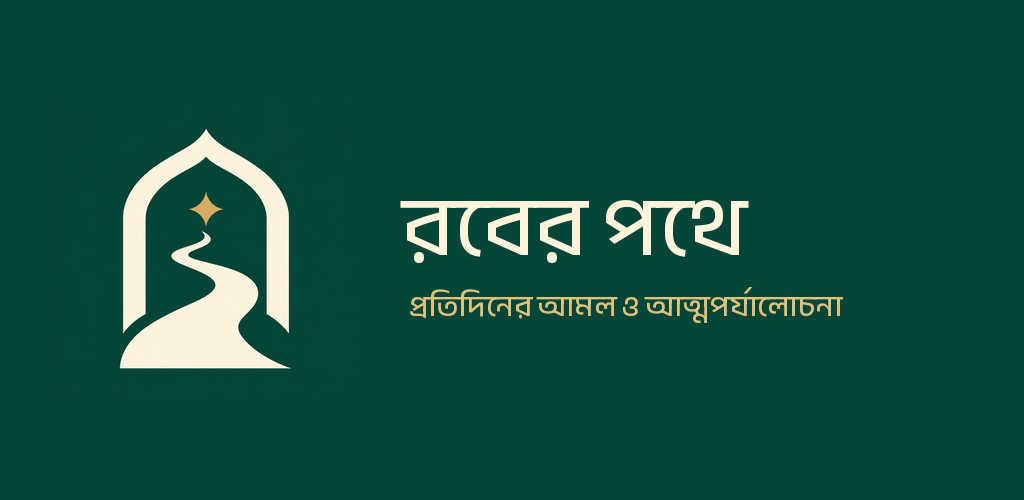
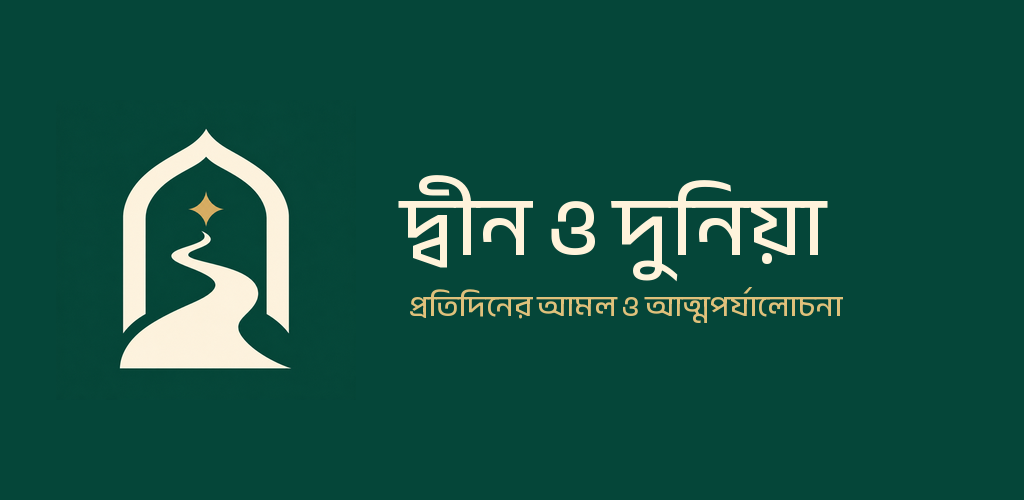
Rename app to দ্বীন ও দুনিয়া across product branding

Changed region(s): [[0.375, 0.33, 0.8125, 0.57]]

diff --git a/hosting/public/privacy.html b/hosting/public/privacy.html
@@ -1,7 +1,7 @@
 <!doctype html>
 <html lang="bn"><head><meta charset="utf-8"><meta name="viewport" content="width=device-width,initial-scale=1">
-<meta name="theme-color" content="#054639"><title>গোপনীয়তা নীতি — রবের পথে</title>
+<meta name="theme-color" content="#054639"><title>গোপনীয়তা নীতি — দ্বীন ও দুনিয়া</title>
 <link rel="icon" href="/assets/icon.png"><link rel="stylesheet" href="/site.css"></head>
-<body><header><a class="brand" href="/"><img src="/assets/icon.png" alt="" width="44" height="44">রবের পথে</a>
+<body><header><a class="brand" href="/"><img src="/assets/icon.png" alt="" width="44" height="44">দ্বীন ও দুনিয়া</a>
 <nav aria-label="মূল নেভিগেশন"><a href="/privacy">গোপনীয়তা</a><a href="/delete-account">অ্যাকাউন্ট মুছুন</a></nav></header>
-<main><h1>গোপনীয়তা নীতি</h1><p class="muted">হালনাগাদ: ৫ নভেম্বর ২০২৬</p><section><h2>আমাদের পরিচয় ও যোগাযোগ</h2><p>রবের পথে অ্যাপটি Rakindotcom পরিচালনা করে। গোপনীয়তা বা সেবা সম্পর্কে প্রশ্ন করতে নিচের যোগাযোগের ইমেইল ব্যবহার করুন। সাধারণ কারিগরি সমস্যার জন্য সহায়তা লিংকও আছে। কোনো পাবলিক ইস্যুতে পাসওয়ার্ড, ব্যক্তিগত আমল বা অন্য সংবেদনশীল তথ্য লিখবেন না।</p></section><section><h2>আপনি যে তথ্য দেন</h2><p>অনলাইন অ্যাকাউন্টের জন্য নাম, ইমেইল ও একটি ব্যবহারকারী পরিচিতি Firebase Authentication ও Cloud Firestore-এ রাখা হয়। আপনার দেওয়া কাজ, বিবরণ, প্রকল্প, সময়সূচি, সময়সীমা, ক্যালেন্ডার ইভেন্ট, নামাজ ও জামাতের হিসাব, গ্রোথ চেকলিস্ট, কুরআন পড়া, যিকির, লক্ষ্য, পরিচিতির নাম ও পছন্দগুলো সংশ্লিষ্ট সুবিধা অনুযায়ী ডিভাইসে বা অ্যাকাউন্টের সঙ্গে সংরক্ষিত হয়। আমলের হিসাব ধর্মীয় বিশ্বাস বা চর্চা সম্পর্কে তথ্য প্রকাশ করতে পারে। অ্যাপে ফোনের পরিচিতির তালিকা আমদানি করা হয় না।</p></section><section><h2>ডিভাইসে থাকা কর্মপরিসর</h2><p>নতুন কর্মপরিসরের কাজ, প্রকল্প, ক্যালেন্ডার ইভেন্ট, নোট, পছন্দ, ট্র্যাশ, সম্পাদনার ইতিহাস এবং সিঙ্ক না হওয়া পরিবর্তন ডিভাইসের অ্যাপ-সংরক্ষণস্থানে অ্যাকাউন্টভিত্তিক Sembast ডেটাবেসে থাকে। ওয়েব সংস্করণে একই ধরনের তথ্য ব্রাউজারের স্থানীয় ডেটাবেসে থাকে। এই স্থানীয় ডেটাবেসে অ্যাপ নিজে অতিরিক্ত এনক্রিপশন যোগ করে না। সাইন আউট করলে স্থানীয় কর্মপরিসর মুছে যায় না; একই অ্যাকাউন্ট আবার খুললে রাখা তথ্য ও সিঙ্কের অপেক্ষায় থাকা কাজ ব্যবহার করা যায়। ডিভাইস অন্য কাউকে দেওয়ার আগে প্রয়োজনে অপারেটিং সিস্টেম থেকে অ্যাপের সংরক্ষিত তথ্য বা ব্রাউজারের সংশ্লিষ্ট সাইটের তথ্য পরিষ্কার করুন। এতে সিঙ্ক বা ব্যাকআপ না হওয়া তথ্য হারাতে পারে।</p></section><section><h2>ক্লাউড সমন্বয় ও অফলাইন প্রিভিউ</h2><p>প্রধান অ্যাপের অনলাইন সুবিধাগুলো অ্যাকাউন্টের তথ্য Cloud Firestore-এ রাখে। নতুন কর্মপরিসরের অনলাইন সমন্বয় চালু থাকা সংস্করণে স্থানীয় কর্মপরিসরের রেকর্ড ও সম্পাদনার তথ্যও আপনার Firebase অ্যাকাউন্টের অধীনে Firestore-এ সমন্বয় করা হয়। অফলাইনে করা পরিবর্তন স্থানীয় কিউতে থাকে এবং সংযোগ ও সক্রিয় সেশন থাকলে পরে পাঠানোর চেষ্টা করা হয়। আলাদা PREVIEW চিহ্নিত অফলাইন সংস্করণ Firebase চালু করে না এবং প্রধান অ্যাকাউন্টে সাইন ইন বা ক্লাউড সমন্বয় করে না। প্রিভিউর কর্মপরিসরের তথ্য তার নিজস্ব স্থানীয় সংরক্ষণস্থানে থাকে।</p></section><section><h2>ব্যাকআপ নেওয়া ও ফিরিয়ে আনা</h2><p>নতুন কর্মপরিসরের সেটিংস থেকে চাইলে JSON ব্যাকআপ নিতে বা বেছে নেওয়া ব্যাকআপ ফিরিয়ে আনতে পারেন। ব্যাকআপে অ্যাকাউন্ট পরিচিতি, কর্মপরিসরের রেকর্ড, ট্র্যাশ, সিঙ্ক না হওয়া পরিবর্তন, সম্পাদনার ইতিহাস ও দ্বন্দ্বের তথ্য থাকতে পারে। এই JSON ফাইল এনক্রিপ্ট করা নয়; ফাইলটি যিনি পড়তে পারেন তিনি এর তথ্যও পড়তে পারেন। ডিভাইসের ফাইল বাছাইয়ের পর্দায় আপনি ফাইল কোথায় রাখবেন বা কোন ফাইল খুলবেন তা ঠিক করেন। আপনার বেছে নেওয়া ক্লাউড ড্রাইভ বা অন্য সংরক্ষণসেবা ব্যবহার করলে সেই সেবার নিয়ম প্রযোজ্য হয়। অ্যাপ নিজে ব্যাকআপ ফাইল কোনো নির্দিষ্ট ক্লাউডে পাঠায় না। ফিরিয়ে আনা ব্যাকআপ একই অ্যাকাউন্টের হতে হয়; এর তথ্য বর্তমান রেকর্ড বদলাতে পারে এবং অনলাইন সমন্বয় চালু থাকলে পরে Firestore-এ পাঠানো হতে পারে। অ্যাকাউন্ট মুছে ফেললেও আপনার রপ্তানি করা ফাইল বা অন্য সংরক্ষণসেবায় রাখা কপি অ্যাপ মুছতে পারে না; সেগুলো আলাদাভাবে মুছুন।</p></section><section><h2>তথ্য ব্যবহারের উদ্দেশ্য</h2><p>অ্যাকাউন্টে প্রবেশ, আপনার তথ্য ডিভাইসগুলোর মধ্যে সমন্বয়, অগ্রগতি দেখানো এবং আপনার পছন্দ অনুযায়ী সেবা দিতে তথ্য ব্যবহার করা হয়। ব্যক্তিগত তথ্য বিক্রি করা হয় না এবং বিজ্ঞাপন দেখাতে ব্যবহার করা হয় না।</p></section><section><h2>অবস্থান ও নোটিফিকেশন</h2><p>আপনি বর্তমান অবস্থান ব্যবহার করতে বললে অনুমতি নিয়ে নামাজের সময় গণনার জন্য অবস্থান নেওয়া হয়। ডিভাইস থেকে পাওয়া স্থানাঙ্ক দুই দশমিক ঘরে সীমিত করে এই ডিভাইসে রাখা হয়; অ্যাপের কোড সেই স্থানাঙ্ক Firestore-এ পাঠায় না। আপনি নিজেও স্থানাঙ্ক দিতে পারেন। রিমাইন্ডার, নামাজের অ্যালার্ট ও তাদের পছন্দ ডিভাইসে কাজ করে। অনুমতি বন্ধ করতে ডিভাইসের সেটিংস ব্যবহার করুন।</p></section><section><h2>সেবা প্রদানকারী ও নিরাপত্তা</h2><p>Google Firebase অ্যাকাউন্ট ও তথ্য সংরক্ষণে সেবা প্রদানকারী হিসেবে কাজ করে। Firebase Authentication নিরাপত্তা ও অপব্যবহার প্রতিরোধের জন্য IP ঠিকানা, user-agent ও অ্যাপ সম্পর্কিত কারিগরি তথ্য প্রক্রিয়া করতে পারে। Google দিয়ে প্রবেশ করলে Google আপনার পরিচয় নিশ্চিত করে। নেটওয়ার্কে তথ্য পাঠাতে সুরক্ষিত সংযোগ এবং অ্যাকাউন্ট অনুযায়ী প্রবেশাধিকার ব্যবহৃত হয়। কোনো ব্যবস্থাকে সম্পূর্ণ ঝুঁকিমুক্ত বলে নিশ্চয়তা দেওয়া যায় না।</p></section><section><h2>ঐচ্ছিক সমস্যার রিপোর্ট</h2><p>সেটিংসে সমস্যার রিপোর্ট পাঠানো চালু করলে Firebase Crashlytics-এ ক্র্যাশের ধরন, কল স্ট্যাক, ফোনের মডেল, অপারেটিং সিস্টেম ও অ্যাপ ইনস্টলেশনের পরিচিতির মতো কারিগরি তথ্য পাঠানো হয়। এটি শুরুতে বন্ধ থাকে এবং যেকোনো সময় বন্ধ করতে পারেন। অ্যাপ রিপোর্টে আপনার নাম, ইমেইল, অ্যাকাউন্ট পরিচিতি বা দৈনন্দিন আমলের বিবরণ যোগ করে না। বন্ধ করলে পাঠানো বাকি রিপোর্ট সরানোর চেষ্টা করা হয়; আগে পাঠানো প্রযুক্তিগত রিপোর্ট Google-এর সংরক্ষণ নীতির অধীন থাকে। বিজ্ঞাপনের জন্য এই রিপোর্ট ব্যবহৃত হয় না।</p></section><section><h2>তথ্য কতদিন থাকে</h2><p>আপনি অ্যাকাউন্ট ব্যবহার করার সময় আপনার সংরক্ষিত তথ্য রাখা হয়। সাইন আউটের পরও এই ডিভাইসের স্থানীয় কর্মপরিসর থাকে, যতক্ষণ না অ্যাকাউন্ট মোছার পর স্থানীয় পরিষ্কার সম্পন্ন হয় বা আপনি অ্যাপের সংরক্ষিত তথ্য পরিষ্কার করেন। মোছা শুরু হলে অ্যাকাউন্টে নতুন তথ্য লেখা বন্ধ হয়। অ্যাপ বা ওয়েব পৃষ্ঠা আপনার সংশ্লিষ্ট সক্রিয় তথ্য মুছে ফেলার পর অ্যাকাউন্ট মুছে দেয়। সংযোগ বিচ্ছিন্ন হলে আবার সাইন ইন করে মোছা সম্পন্ন করতে হয়; কাজ শেষ হওয়ার আগে সফল বলা হয় না। পুরনো সেশন বা কিউতে থাকা লেখা থেকে তথ্য আবার তৈরি হওয়া ঠেকাতে অ্যাকাউন্ট পরিচিতির একটি খালি রোধচিহ্ন রাখা হয়। এতে নাম, ইমেইল বা আমলের তথ্য থাকে না এবং এই নিরাপত্তা চিহ্নের নির্দিষ্ট মেয়াদ নেই। সেবা প্রদানকারীর নিরাপত্তা লগ ও প্রযোজ্য ব্যাকআপ তাদের নিজস্ব সংরক্ষণ নীতির অধীন।</p></section><section><h2>অ্যাকাউন্ট ও তথ্য মুছে ফেলা</h2><p>অ্যাপে সেটিংস → অ্যাকাউন্ট মুছে ফেলুন থেকে অনুরোধ করুন, অথবা নিচের ওয়েব পৃষ্ঠায় একই অ্যাকাউন্ট দিয়ে প্রবেশ করুন। নিরাপত্তার জন্য পরিচয় আবার নিশ্চিত করতে হয়। অ্যাকাউন্টের সঙ্গে থাকা কাজ, প্রকল্প, ক্যালেন্ডার ইভেন্ট, কর্মপরিসরের রেকর্ড ও সম্পাদনার তথ্য, নামাজ, গ্রোথ, কুরআন, যিকির, পরিচিতি, পছন্দ, প্রোফাইল ও অ্যাকাউন্ট মুছে ফেলা হবে। মোছা শুরু হলে এটি ফিরিয়ে নেওয়া যাবে না। মোছা শেষ না হওয়া পর্যন্ত অ্যাপ বা পৃষ্ঠা খোলা রাখুন। অ্যাপ থেকে সফলভাবে মোছার পর এই ডিভাইসের সংশ্লিষ্ট কর্মপরিসরের ডেটাবেস, অবস্থান ও অ্যালার্টের পছন্দ পরিষ্কার করার চেষ্টা করা হয়; বাকি স্থানীয় পরিষ্কার পরেরবার অ্যাপ চালুর সময় আবার চেষ্টা করা হয়। ওয়েব পৃষ্ঠা বা অন্য ডিভাইস থেকে মোছা এই ডিভাইসের অফলাইন কপি তাৎক্ষণিকভাবে পরিষ্কার করতে পারে না। অবশিষ্ট স্থানীয় তথ্য পরিষ্কার করতে অ্যাপটি বন্ধ করে আবার চালু করুন এবং প্রয়োজনে ডিভাইস থেকে অ্যাপের তথ্য বা ব্রাউজারের সংশ্লিষ্ট সাইটের তথ্য পরিষ্কার করুন। রপ্তানি করা ব্যাকআপ এবং আলাদা অফলাইন প্রিভিউর তথ্য নিজে পরিষ্কার করুন।</p></section><section><h2>আপনার পছন্দ ও অধিকার</h2><p>প্রোফাইল ও দৈনিক হিসাব অ্যাপের সংশ্লিষ্ট পৃষ্ঠা থেকে সংশোধন করতে পারেন। অবস্থান ও নোটিফিকেশন ব্যবহার ঐচ্ছিক। পাসওয়ার্ড রিসেট, সাইন আউট বা অ্যাকাউন্ট মুছে ফেলার ব্যবস্থা ব্যবহার করতে পারেন। অ্যাকাউন্ট মুছে ফেললে সক্রিয় সার্ভারে আপনার তথ্য রাখা হয় না; উপরে বলা খালি নিরাপত্তা চিহ্ন ও সেবা প্রদানকারীর সংরক্ষণ ব্যতিক্রম প্রযোজ্য।</p></section><section><h2>নীতির পরিবর্তন</h2><p>তথ্য ব্যবহারে পরিবর্তন হলে এই পৃষ্ঠার হালনাগাদের তারিখ ও নীতি সংশোধন করা হবে। নতুন সংবেদনশীল অনুমতি বা উদ্দেশ্যের জন্য প্রয়োজনীয় ব্যাখ্যা ও পছন্দ দেওয়া হবে।</p></section><p><a href="https://github.com/Rakindotcom/assistUmmah/issues">সহায়তা ও যোগাযোগ</a></p><p><a href="mailto:teamframecipher@gmail.com">teamframecipher@gmail.com</a></p><p><a href="/delete-account">ওয়েব থেকে অ্যাকাউন্ট মুছে ফেলার অনুরোধ করুন</a></p></main><footer>রবের পথে · Rakindotcom · <a href="/privacy">গোপনীয়তা নীতি</a></footer></body></html>
+<main><h1>গোপনীয়তা নীতি</h1><p class="muted">হালনাগাদ: ৯ নভেম্বর ২০২৬</p><section><h2>আমাদের পরিচয় ও যোগাযোগ</h2><p>দ্বীন ও দুনিয়া অ্যাপটি Rakindotcom পরিচালনা করে। গোপনীয়তা বা সেবা সম্পর্কে প্রশ্ন করতে নিচের যোগাযোগের ইমেইল ব্যবহার করুন। সাধারণ কারিগরি সমস্যার জন্য সহায়তা লিংকও আছে। কোনো পাবলিক ইস্যুতে পাসওয়ার্ড, ব্যক্তিগত আমল বা অন্য সংবেদনশীল তথ্য লিখবেন না।</p></section><section><h2>আপনি যে তথ্য দেন</h2><p>অনলাইন অ্যাকাউন্টের জন্য নাম, ইমেইল ও একটি ব্যবহারকারী পরিচিতি Firebase Authentication ও Cloud Firestore-এ রাখা হয়। আপনার দেওয়া কাজ, বিবরণ, প্রকল্প, সময়সূচি, সময়সীমা, ক্যালেন্ডার ইভেন্ট, নামাজ ও জামাতের হিসাব, গ্রোথ চেকলিস্ট, কুরআন পড়া, যিকির, লক্ষ্য, পরিচিতির নাম ও পছন্দগুলো সংশ্লিষ্ট সুবিধা অনুযায়ী ডিভাইসে বা অ্যাকাউন্টের সঙ্গে সংরক্ষিত হয়। আমলের হিসাব ধর্মীয় বিশ্বাস বা চর্চা সম্পর্কে তথ্য প্রকাশ করতে পারে। অ্যাপে ফোনের পরিচিতির তালিকা আমদানি করা হয় না।</p></section><section><h2>ডিভাইসে থাকা কর্মপরিসর</h2><p>নতুন কর্মপরিসরের কাজ, প্রকল্প, ক্যালেন্ডার ইভেন্ট, নোট, পছন্দ, ট্র্যাশ, সম্পাদনার ইতিহাস এবং সিঙ্ক না হওয়া পরিবর্তন ডিভাইসের অ্যাপ-সংরক্ষণস্থানে অ্যাকাউন্টভিত্তিক Sembast ডেটাবেসে থাকে। ওয়েব সংস্করণে একই ধরনের তথ্য ব্রাউজারের স্থানীয় ডেটাবেসে থাকে। এই স্থানীয় ডেটাবেসে অ্যাপ নিজে অতিরিক্ত এনক্রিপশন যোগ করে না। সাইন আউট করলে স্থানীয় কর্মপরিসর মুছে যায় না; একই অ্যাকাউন্ট আবার খুললে রাখা তথ্য ও সিঙ্কের অপেক্ষায় থাকা কাজ ব্যবহার করা যায়। ডিভাইস অন্য কাউকে দেওয়ার আগে প্রয়োজনে অপারেটিং সিস্টেম থেকে অ্যাপের সংরক্ষিত তথ্য বা ব্রাউজারের সংশ্লিষ্ট সাইটের তথ্য পরিষ্কার করুন। এতে সিঙ্ক বা ব্যাকআপ না হওয়া তথ্য হারাতে পারে।</p></section><section><h2>ক্লাউড সমন্বয় ও অফলাইন প্রিভিউ</h2><p>প্রধান অ্যাপের অনলাইন সুবিধাগুলো অ্যাকাউন্টের তথ্য Cloud Firestore-এ রাখে। নতুন কর্মপরিসরের অনলাইন সমন্বয় চালু থাকা সংস্করণে স্থানীয় কর্মপরিসরের রেকর্ড ও সম্পাদনার তথ্যও আপনার Firebase অ্যাকাউন্টের অধীনে Firestore-এ সমন্বয় করা হয়। অফলাইনে করা পরিবর্তন স্থানীয় কিউতে থাকে এবং সংযোগ ও সক্রিয় সেশন থাকলে পরে পাঠানোর চেষ্টা করা হয়। আলাদা PREVIEW চিহ্নিত অফলাইন সংস্করণ Firebase চালু করে না এবং প্রধান অ্যাকাউন্টে সাইন ইন বা ক্লাউড সমন্বয় করে না। প্রিভিউর কর্মপরিসরের তথ্য তার নিজস্ব স্থানীয় সংরক্ষণস্থানে থাকে।</p></section><section><h2>ব্যাকআপ নেওয়া ও ফিরিয়ে আনা</h2><p>নতুন কর্মপরিসরের সেটিংস থেকে চাইলে JSON ব্যাকআপ নিতে বা বেছে নেওয়া ব্যাকআপ ফিরিয়ে আনতে পারেন। ব্যাকআপে অ্যাকাউন্ট পরিচিতি, কর্মপরিসরের রেকর্ড, ট্র্যাশ, সিঙ্ক না হওয়া পরিবর্তন, সম্পাদনার ইতিহাস ও দ্বন্দ্বের তথ্য থাকতে পারে। এই JSON ফাইল এনক্রিপ্ট করা নয়; ফাইলটি যিনি পড়তে পারেন তিনি এর তথ্যও পড়তে পারেন। ডিভাইসের ফাইল বাছাইয়ের পর্দায় আপনি ফাইল কোথায় রাখবেন বা কোন ফাইল খুলবেন তা ঠিক করেন। আপনার বেছে নেওয়া ক্লাউড ড্রাইভ বা অন্য সংরক্ষণসেবা ব্যবহার করলে সেই সেবার নিয়ম প্রযোজ্য হয়। অ্যাপ নিজে ব্যাকআপ ফাইল কোনো নির্দিষ্ট ক্লাউডে পাঠায় না। ফিরিয়ে আনা ব্যাকআপ একই অ্যাকাউন্টের হতে হয়; এর তথ্য বর্তমান রেকর্ড বদলাতে পারে এবং অনলাইন সমন্বয় চালু থাকলে পরে Firestore-এ পাঠানো হতে পারে। অ্যাকাউন্ট মুছে ফেললেও আপনার রপ্তানি করা ফাইল বা অন্য সংরক্ষণসেবায় রাখা কপি অ্যাপ মুছতে পারে না; সেগুলো আলাদাভাবে মুছুন।</p></section><section><h2>তথ্য ব্যবহারের উদ্দেশ্য</h2><p>অ্যাকাউন্টে প্রবেশ, আপনার তথ্য ডিভাইসগুলোর মধ্যে সমন্বয়, অগ্রগতি দেখানো এবং আপনার পছন্দ অনুযায়ী সেবা দিতে তথ্য ব্যবহার করা হয়। ব্যক্তিগত তথ্য বিক্রি করা হয় না এবং বিজ্ঞাপন দেখাতে ব্যবহার করা হয় না।</p></section><section><h2>অবস্থান ও নোটিফিকেশন</h2><p>আপনি বর্তমান অবস্থান ব্যবহার করতে বললে অনুমতি নিয়ে নামাজের সময় গণনার জন্য অবস্থান নেওয়া হয়। ডিভাইস থেকে পাওয়া স্থানাঙ্ক দুই দশমিক ঘরে সীমিত করে এই ডিভাইসে রাখা হয়; অ্যাপের কোড সেই স্থানাঙ্ক Firestore-এ পাঠায় না। আপনি নিজেও স্থানাঙ্ক দিতে পারেন। রিমাইন্ডার, নামাজের অ্যালার্ট ও তাদের পছন্দ ডিভাইসে কাজ করে। অনুমতি বন্ধ করতে ডিভাইসের সেটিংস ব্যবহার করুন।</p></section><section><h2>সেবা প্রদানকারী ও নিরাপত্তা</h2><p>Google Firebase অ্যাকাউন্ট ও তথ্য সংরক্ষণে সেবা প্রদানকারী হিসেবে কাজ করে। Firebase Authentication নিরাপত্তা ও অপব্যবহার প্রতিরোধের জন্য IP ঠিকানা, user-agent ও অ্যাপ সম্পর্কিত কারিগরি তথ্য প্রক্রিয়া করতে পারে। Google দিয়ে প্রবেশ করলে Google আপনার পরিচয় নিশ্চিত করে। নেটওয়ার্কে তথ্য পাঠাতে সুরক্ষিত সংযোগ এবং অ্যাকাউন্ট অনুযায়ী প্রবেশাধিকার ব্যবহৃত হয়। কোনো ব্যবস্থাকে সম্পূর্ণ ঝুঁকিমুক্ত বলে নিশ্চয়তা দেওয়া যায় না।</p></section><section><h2>ঐচ্ছিক সমস্যার রিপোর্ট</h2><p>সেটিংসে সমস্যার রিপোর্ট পাঠানো চালু করলে Firebase Crashlytics-এ ক্র্যাশের ধরন, কল স্ট্যাক, ফোনের মডেল, অপারেটিং সিস্টেম ও অ্যাপ ইনস্টলেশনের পরিচিতির মতো কারিগরি তথ্য পাঠানো হয়। এটি শুরুতে বন্ধ থাকে এবং যেকোনো সময় বন্ধ করতে পারেন। অ্যাপ রিপোর্টে আপনার নাম, ইমেইল, অ্যাকাউন্ট পরিচিতি বা দৈনন্দিন আমলের বিবরণ যোগ করে না। বন্ধ করলে পাঠানো বাকি রিপোর্ট সরানোর চেষ্টা করা হয়; আগে পাঠানো প্রযুক্তিগত রিপোর্ট Google-এর সংরক্ষণ নীতির অধীন থাকে। বিজ্ঞাপনের জন্য এই রিপোর্ট ব্যবহৃত হয় না।</p></section><section><h2>তথ্য কতদিন থাকে</h2><p>আপনি অ্যাকাউন্ট ব্যবহার করার সময় আপনার সংরক্ষিত তথ্য রাখা হয়। সাইন আউটের পরও এই ডিভাইসের স্থানীয় কর্মপরিসর থাকে, যতক্ষণ না অ্যাকাউন্ট মোছার পর স্থানীয় পরিষ্কার সম্পন্ন হয় বা আপনি অ্যাপের সংরক্ষিত তথ্য পরিষ্কার করেন। মোছা শুরু হলে অ্যাকাউন্টে নতুন তথ্য লেখা বন্ধ হয়। অ্যাপ বা ওয়েব পৃষ্ঠা আপনার সংশ্লিষ্ট সক্রিয় তথ্য মুছে ফেলার পর অ্যাকাউন্ট মুছে দেয়। সংযোগ বিচ্ছিন্ন হলে আবার সাইন ইন করে মোছা সম্পন্ন করতে হয়; কাজ শেষ হওয়ার আগে সফল বলা হয় না। পুরনো সেশন বা কিউতে থাকা লেখা থেকে তথ্য আবার তৈরি হওয়া ঠেকাতে অ্যাকাউন্ট পরিচিতির একটি খালি রোধচিহ্ন রাখা হয়। এতে নাম, ইমেইল বা আমলের তথ্য থাকে না এবং এই নিরাপত্তা চিহ্নের নির্দিষ্ট মেয়াদ নেই। সেবা প্রদানকারীর নিরাপত্তা লগ ও প্রযোজ্য ব্যাকআপ তাদের নিজস্ব সংরক্ষণ নীতির অধীন।</p></section><section><h2>অ্যাকাউন্ট ও তথ্য মুছে ফেলা</h2><p>অ্যাপে সেটিংস → অ্যাকাউন্ট মুছে ফেলুন থেকে অনুরোধ করুন, অথবা নিচের ওয়েব পৃষ্ঠায় একই অ্যাকাউন্ট দিয়ে প্রবেশ করুন। নিরাপত্তার জন্য পরিচয় আবার নিশ্চিত করতে হয়। অ্যাকাউন্টের সঙ্গে থাকা কাজ, প্রকল্প, ক্যালেন্ডার ইভেন্ট, কর্মপরিসরের রেকর্ড ও সম্পাদনার তথ্য, নামাজ, গ্রোথ, কুরআন, যিকির, পরিচিতি, পছন্দ, প্রোফাইল ও অ্যাকাউন্ট মুছে ফেলা হবে। মোছা শুরু হলে এটি ফিরিয়ে নেওয়া যাবে না। মোছা শেষ না হওয়া পর্যন্ত অ্যাপ বা পৃষ্ঠা খোলা রাখুন। অ্যাপ থেকে সফলভাবে মোছার পর এই ডিভাইসের সংশ্লিষ্ট কর্মপরিসরের ডেটাবেস, অবস্থান ও অ্যালার্টের পছন্দ পরিষ্কার করার চেষ্টা করা হয়; বাকি স্থানীয় পরিষ্কার পরেরবার অ্যাপ চালুর সময় আবার চেষ্টা করা হয়। ওয়েব পৃষ্ঠা বা অন্য ডিভাইস থেকে মোছা এই ডিভাইসের অফলাইন কপি তাৎক্ষণিকভাবে পরিষ্কার করতে পারে না। অবশিষ্ট স্থানীয় তথ্য পরিষ্কার করতে অ্যাপটি বন্ধ করে আবার চালু করুন এবং প্রয়োজনে ডিভাইস থেকে অ্যাপের তথ্য বা ব্রাউজারের সংশ্লিষ্ট সাইটের তথ্য পরিষ্কার করুন। রপ্তানি করা ব্যাকআপ এবং আলাদা অফলাইন প্রিভিউর তথ্য নিজে পরিষ্কার করুন।</p></section><section><h2>আপনার পছন্দ ও অধিকার</h2><p>প্রোফাইল ও দৈনিক হিসাব অ্যাপের সংশ্লিষ্ট পৃষ্ঠা থেকে সংশোধন করতে পারেন। অবস্থান ও নোটিফিকেশন ব্যবহার ঐচ্ছিক। পাসওয়ার্ড রিসেট, সাইন আউট বা অ্যাকাউন্ট মুছে ফেলার ব্যবস্থা ব্যবহার করতে পারেন। অ্যাকাউন্ট মুছে ফেললে সক্রিয় সার্ভারে আপনার তথ্য রাখা হয় না; উপরে বলা খালি নিরাপত্তা চিহ্ন ও সেবা প্রদানকারীর সংরক্ষণ ব্যতিক্রম প্রযোজ্য।</p></section><section><h2>নীতির পরিবর্তন</h2><p>তথ্য ব্যবহারে পরিবর্তন হলে এই পৃষ্ঠার হালনাগাদের তারিখ ও নীতি সংশোধন করা হবে। নতুন সংবেদনশীল অনুমতি বা উদ্দেশ্যের জন্য প্রয়োজনীয় ব্যাখ্যা ও পছন্দ দেওয়া হবে।</p></section><p><a href="https://github.com/Rakindotcom/assistUmmah/issues">সহায়তা ও যোগাযোগ</a></p><p><a href="mailto:teamframecipher@gmail.com">teamframecipher@gmail.com</a></p><p><a href="/delete-account">ওয়েব থেকে অ্যাকাউন্ট মুছে ফেলার অনুরোধ করুন</a></p></main><footer>দ্বীন ও দুনিয়া · Rakindotcom · <a href="/privacy">গোপনীয়তা নীতি</a></footer></body></html>

diff --git a/hosting/public/delete-account.html b/hosting/public/delete-account.html
@@ -1,11 +1,11 @@
 <!doctype html>
 <html lang="bn"><head><meta charset="utf-8"><meta name="viewport" content="width=device-width,initial-scale=1">
-<meta name="theme-color" content="#054639"><title>অ্যাকাউন্ট মুছে ফেলার অনুরোধ — রবের পথে</title>
+<meta name="theme-color" content="#054639"><title>অ্যাকাউন্ট মুছে ফেলার অনুরোধ — দ্বীন ও দুনিয়া</title>
 <link rel="icon" href="/assets/icon.png"><link rel="stylesheet" href="/site.css"></head>
-<body><header><a class="brand" href="/"><img src="/assets/icon.png" alt="" width="44" height="44">রবের পথে</a>
+<body><header><a class="brand" href="/"><img src="/assets/icon.png" alt="" width="44" height="44">দ্বীন ও দুনিয়া</a>
 <nav aria-label="মূল নেভিগেশন"><a href="/privacy">গোপনীয়তা</a><a href="/delete-account">অ্যাকাউন্ট মুছুন</a></nav></header>
 <main>
-<h1>অ্যাকাউন্ট মুছে ফেলার অনুরোধ</h1><p>অ্যাপ ইনস্টল না থাকলেও এখান থেকে রবের পথে অ্যাকাউন্ট ও সংশ্লিষ্ট তথ্য মুছে ফেলার অনুরোধ করতে পারেন।</p>
+<h1>অ্যাকাউন্ট মুছে ফেলার অনুরোধ</h1><p>অ্যাপ ইনস্টল না থাকলেও এখান থেকে দ্বীন ও দুনিয়া অ্যাকাউন্ট ও সংশ্লিষ্ট তথ্য মুছে ফেলার অনুরোধ করতে পারেন।</p>
 <section><h2>কী মুছে যাবে</h2><p>আপনার প্রোফাইল, কাজ, নামাজ ও জামাতের হিসাব, গ্রোথ চেকলিস্ট, কুরআন পড়া, যিকির, পরিচিতি, পছন্দ ও অ্যাকাউন্ট মুছে যাবে। মোছা শুরু হলে নতুন তথ্য রাখা বন্ধ হবে। এটি ফিরিয়ে নেওয়া যাবে না।</p>
 <p>মোছা শেষ না হওয়া পর্যন্ত এই পৃষ্ঠা খোলা রাখুন। সংযোগ বিচ্ছিন্ন হলে আবার প্রবেশ করে মোছা সম্পন্ন করুন। আগের ধাপগুলো নিরাপদে আবার চলবে। পুরনো সেশন থেকে তথ্য আবার তৈরি ঠেকাতে শুধু অ্যাকাউন্ট পরিচিতির একটি খালি রোধচিহ্ন রাখা হয়; এতে প্রোফাইল বা আমলের তথ্য থাকে না। সেবা প্রদানকারীর নিরাপত্তা লগ ও প্রযোজ্য ব্যাকআপ তাদের সংরক্ষণ নীতির অধীন। অন্য ডিভাইসে অ্যাপের তথ্য পরিষ্কার করুন বা অ্যাপ সরিয়ে দিন। <a href="/privacy">পুরো নীতি পড়ুন</a>।</p></section>
 <noscript><p role="alert">এই ফর্ম ব্যবহার করতে JavaScript চালু করুন। অ্যাপের সেটিংস থেকেও অনুরোধ করতে পারেন।</p></noscript>
@@ -20,4 +20,4 @@
 <label class="checkbox"><input id="confirm" type="checkbox">আমি বুঝেছি, আমার অ্যাকাউন্ট ও সংশ্লিষ্ট তথ্য স্থায়ীভাবে মুছে ফেলা হবে।</label>
 <button id="delete" class="danger" type="button" disabled>মুছে ফেলার অনুরোধ করুন</button>
 <button id="logout" class="secondary" type="button">অন্য অ্যাকাউন্ট ব্যবহার করুন</button></section>
-<section id="receipt" hidden><h2>অ্যাকাউন্ট মুছে ফেলা হয়েছে</h2><p>আপনার অ্যাকাউন্ট ও সংশ্লিষ্ট সক্রিয় তথ্য মুছে ফেলা হয়েছে। এই পৃষ্ঠা বন্ধ করতে পারেন।</p></section></main><footer>রবের পথে · Rakindotcom · <a href="/privacy">গোপনীয়তা নীতি</a></footer><script type="module" src="/delete-account.js"></script></body></html>
+<section id="receipt" hidden><h2>অ্যাকাউন্ট মুছে ফেলা হয়েছে</h2><p>আপনার অ্যাকাউন্ট ও সংশ্লিষ্ট সক্রিয় তথ্য মুছে ফেলা হয়েছে। এই পৃষ্ঠা বন্ধ করতে পারেন।</p></section></main><footer>দ্বীন ও দুনিয়া · Rakindotcom · <a href="/privacy">গোপনীয়তা নীতি</a></footer><script type="module" src="/delete-account.js"></script></body></html>

diff --git a/hosting/public/index.html b/hosting/public/index.html
@@ -1,10 +1,10 @@
 <!doctype html>
 <html lang="bn"><head><meta charset="utf-8"><meta name="viewport" content="width=device-width,initial-scale=1">
-<meta name="theme-color" content="#054639"><title>প্রতিদিনের আমল ও আত্মপর্যালোচনা — রবের পথে</title>
+<meta name="theme-color" content="#054639"><title>প্রতিদিনের আমল ও আত্মপর্যালোচনা — দ্বীন ও দুনিয়া</title>
 <link rel="icon" href="/assets/icon.png"><link rel="stylesheet" href="/site.css"></head>
-<body><header><a class="brand" href="/"><img src="/assets/icon.png" alt="" width="44" height="44">রবের পথে</a>
+<body><header><a class="brand" href="/"><img src="/assets/icon.png" alt="" width="44" height="44">দ্বীন ও দুনিয়া</a>
 <nav aria-label="মূল নেভিগেশন"><a href="/privacy">গোপনীয়তা</a><a href="/delete-account">অ্যাকাউন্ট মুছুন</a></nav></header>
 <main>
-<section class="hero"><img src="/assets/icon.png" alt="রবের পথে অ্যাপের প্রতীক" width="128" height="128">
-<h1>প্রতিদিন রবের পথে</h1><p>কাজ, নামাজ, গ্রোথ, কুরআন ও যিকিরের হিসাব এক জায়গায়।</p>
-<div class="actions"><a class="button" href="/privacy">গোপনীয়তা নীতি</a><a class="button secondary" href="/delete-account">অ্যাকাউন্ট মুছুন</a></div></section></main><footer>রবের পথে · Rakindotcom · <a href="/privacy">গোপনীয়তা নীতি</a></footer></body></html>
+<section class="hero"><img src="/assets/icon.png" alt="দ্বীন ও দুনিয়া অ্যাপের প্রতীক" width="128" height="128">
+<h1>দ্বীন ও দুনিয়া</h1><p>কাজ, নামাজ, গ্রোথ, কুরআন ও যিকিরের হিসাব এক জায়গায়।</p>
+<div class="actions"><a class="button" href="/privacy">গোপনীয়তা নীতি</a><a class="button secondary" href="/delete-account">অ্যাকাউন্ট মুছুন</a></div></section></main><footer>দ্বীন ও দুনিয়া · Rakindotcom · <a href="/privacy">গোপনীয়তা নীতি</a></footer></body></html>

diff --git a/lib/src/productivity/data/productivity_database.dart b/lib/src/productivity/data/productivity_database.dart
@@ -291,8 +291,8 @@ class ProductivityDatabase {
         final conflicts = await _conflicts.find(transaction,
             finder: Finder(sortOrders: [SortOrder(Field.key)]));
         final payload = <String, Object?>{
-          'format': 'rober-pothe-workspace',
-          'formatVersion': 2,
+          'format': 'workspace-archive',
+          'formatVersion': 3,
           'ownerId': uid,
           'exportedAt': _clock().toUtc().toIso8601String(),
           'records': records.map((row) => _decode(row.value).toJson()).toList(),
@@ -317,14 +317,19 @@ class ProductivityDatabase {
     }
     final data = jsonDecode(source);
     if (data is! Map<String, dynamic> ||
-        data['format'] != 'rober-pothe-workspace' ||
-        (data['formatVersion'] != 1 && data['formatVersion'] != 2) ||
+        data['format'] is! String ||
+        (data['formatVersion'] != 1 &&
+            data['formatVersion'] != 2 &&
+            data['formatVersion'] != 3) ||
+        (data['formatVersion'] == 3 && data['format'] != 'workspace-archive') ||
         data['ownerId'] != uid ||
         data['records'] is! List ||
         data['history'] is! List ||
-        (data['formatVersion'] == 2 && data['conflicts'] is! List)) {
+        (data['formatVersion'] != 1 && data['conflicts'] is! List)) {
       throw const FormatException('Unsupported backup or a different account.');
     }
+    // Earlier versions used a branded format tag. Their checksum, ownership
+    // and complete record/history schema still validate before any writes.
     final payload = {...data}..remove('checksum');
     if (data['checksum'] !=
         sha256.convert(utf8.encode(canonicalJson(payload))).toString()) {
@@ -366,7 +371,7 @@ class ProductivityDatabase {
       }
       return item;
     }).toList(growable: false);
-    final rawConflicts = data['formatVersion'] == 2
+    final rawConflicts = data['formatVersion'] != 1
         ? data['conflicts'] as List
         : const <Object?>[];
     if (rawConflicts.length > 20000) {

diff --git a/hosting/public/404.html b/hosting/public/404.html
@@ -1,7 +1,7 @@
 <!doctype html>
 <html lang="bn"><head><meta charset="utf-8"><meta name="viewport" content="width=device-width,initial-scale=1">
-<meta name="theme-color" content="#054639"><title>পৃষ্ঠা পাওয়া যায়নি — রবের পথে</title>
+<meta name="theme-color" content="#054639"><title>পৃষ্ঠা পাওয়া যায়নি — দ্বীন ও দুনিয়া</title>
 <link rel="icon" href="/assets/icon.png"><link rel="stylesheet" href="/site.css"></head>
-<body><header><a class="brand" href="/"><img src="/assets/icon.png" alt="" width="44" height="44">রবের পথে</a>
+<body><header><a class="brand" href="/"><img src="/assets/icon.png" alt="" width="44" height="44">দ্বীন ও দুনিয়া</a>
 <nav aria-label="মূল নেভিগেশন"><a href="/privacy">গোপনীয়তা</a><a href="/delete-account">অ্যাকাউন্ট মুছুন</a></nav></header>
-<main><h1>পৃষ্ঠা পাওয়া যায়নি</h1><p><a href="/">মূল পৃষ্ঠায় ফিরুন</a></p></main><footer>রবের পথে · Rakindotcom · <a href="/privacy">গোপনীয়তা নীতি</a></footer></body></html>
+<main><h1>পৃষ্ঠা পাওয়া যায়নি</h1><p><a href="/">মূল পৃষ্ঠায় ফিরুন</a></p></main><footer>দ্বীন ও দুনিয়া · Rakindotcom · <a href="/privacy">গোপনীয়তা নীতি</a></footer></body></html>

diff --git a/test/productivity/offline_database_test.dart b/test/productivity/offline_database_test.dart
@@ -598,7 +598,7 @@ void main() {
     await createTitleConflict(original);
     final archive = await original.exportArchive();
     final decoded = jsonDecode(archive) as Map<String, dynamic>;
-    expect(decoded['formatVersion'], 2);
+    expect(decoded['formatVersion'], 3);
     expect(decoded['conflicts'], hasLength(1));
     expect(
         await restored.importArchive(archive,
@@ -626,6 +626,22 @@ void main() {
     expect((await legacy.get(RecordKind.task, 'proposal'))!.fields['title'],
         'Cloud title');
     expect(await legacy.fieldConflicts(), isEmpty);
+
+    final previous = await memory();
+    addTearDown(previous.close);
+    final previousPayload = {...decoded}
+      ..remove('checksum')
+      ..['format'] = 'legacy-workspace'
+      ..['formatVersion'] = 2;
+    expect(
+        await previous.importArchive(jsonEncode({
+          ...previousPayload,
+          'checksum': sha256
+              .convert(utf8.encode(canonicalJson(previousPayload)))
+              .toString()
+        })),
+        1);
+    expect(await previous.fieldConflicts(), hasLength(1));
   });
 
   test('recomputed checksum cannot hide inconsistent conflict values',

diff --git a/lib/src/account/privacy_page.dart b/lib/src/account/privacy_page.dart
@@ -4,6 +4,8 @@ import 'package:flutter/material.dart';
 import 'package:flutter/services.dart';
 import 'package:url_launcher/url_launcher.dart';
 
+import '../app_identity.dart';
+
 class PrivacyPage extends StatelessWidget {
   const PrivacyPage({super.key});
   static final Uri publicPolicy = Uri.https('assistummah.web.app', '/privacy');
@@ -44,7 +46,7 @@ class PrivacyPage extends StatelessWidget {
                 child: ConstrainedBox(
                   constraints: const BoxConstraints(maxWidth: 720),
                   child: ListView(padding: const EdgeInsets.all(24), children: [
-                    Text('রবের পথে',
+                    Text(AppIdentity.name,
                         style: Theme.of(context).textTheme.headlineSmall),
                     const SizedBox(height: 8),
                     Text('হালনাগাদ: ${policy['updated']}'),

diff --git a/lib/src/app_bootstrap.dart b/lib/src/app_bootstrap.dart
@@ -5,6 +5,7 @@ import '../firebase_options.dart';
 import 'account/account_service.dart';
 import 'account/privacy_page.dart';
 import 'app.dart';
+import 'app_identity.dart';
 import 'diagnostics/diagnostics_service.dart';
 
 class AppBootstrap extends StatefulWidget {
@@ -92,7 +93,7 @@ class _StartupStatus extends StatelessWidget {
                     ? const [
                         CircularProgressIndicator(),
                         SizedBox(height: 20),
-                        Text('রবের পথে চালু হচ্ছে…'),
+                        Text('${AppIdentity.name} চালু হচ্ছে…'),
                       ]
                     : [
                         const Icon(Icons.cloud_off_outlined, size: 48),

diff --git a/web/index.html b/web/index.html
@@ -24,13 +24,13 @@
   <!-- iOS meta tags & icons -->
   <meta name="mobile-web-app-capable" content="yes">
   <meta name="apple-mobile-web-app-status-bar-style" content="black">
-  <meta name="apple-mobile-web-app-title" content="রবের পথে">
+  <meta name="apple-mobile-web-app-title" content="দ্বীন ও দুনিয়া">
   <link rel="apple-touch-icon" href="apple-touch-icon.png">
 
   <!-- Favicon -->
   <link rel="icon" type="image/png" href="favicon.png"/>
 
-  <title>রবের পথে</title>
+  <title>দ্বীন ও দুনিয়া</title>
   <link rel="manifest" href="manifest.json">
 </head>
 <body>

diff --git a/test/widget_test.dart b/test/widget_test.dart
@@ -18,7 +18,7 @@ void main() {
   testWidgets('shows app title in offline preview', (tester) async {
     await tester.pumpWidget(const UmmahAssistApp(firebaseReady: false));
 
-    expect(find.text('রবের পথে'), findsOneWidget);
+    expect(find.text('দ্বীন ও দুনিয়া'), findsOneWidget);
     expect(find.byType(DashboardPage), findsOneWidget);
     await tester.pump();
     await tester.pump(const Duration(milliseconds: 200));

diff --git a/tool/tasbih_preview_test.dart b/tool/tasbih_preview_test.dart
@@ -34,7 +34,7 @@ void main() {
         supportedLocales: AppLocalization.supportedLocales,
         localizationsDelegates: AppLocalization.delegates,
         home: Scaffold(
-          appBar: AppBar(title: const Text('রবের পথে')),
+          appBar: AppBar(title: const Text('দ্বীন ও দুনিয়া')),
           body: DhikrPage(
               repository: UiPreviewRepository(today: day), today: day),
         ),

diff --git a/lib/src/productivity/data/workspace_backup.dart b/lib/src/productivity/data/workspace_backup.dart
@@ -60,7 +60,7 @@ class WorkspaceBackup {
       throw const FormatException('Backup exceeds this version’s file limit.');
     }
     final date = DateTime.now().toUtc().toIso8601String().substring(0, 10);
-    return files.save('rober-pothe-workspace-$date.json', bytes);
+    return files.save('deen-o-duniya-workspace-$date.json', bytes);
   }
 
   Future<int?> restore() async {
